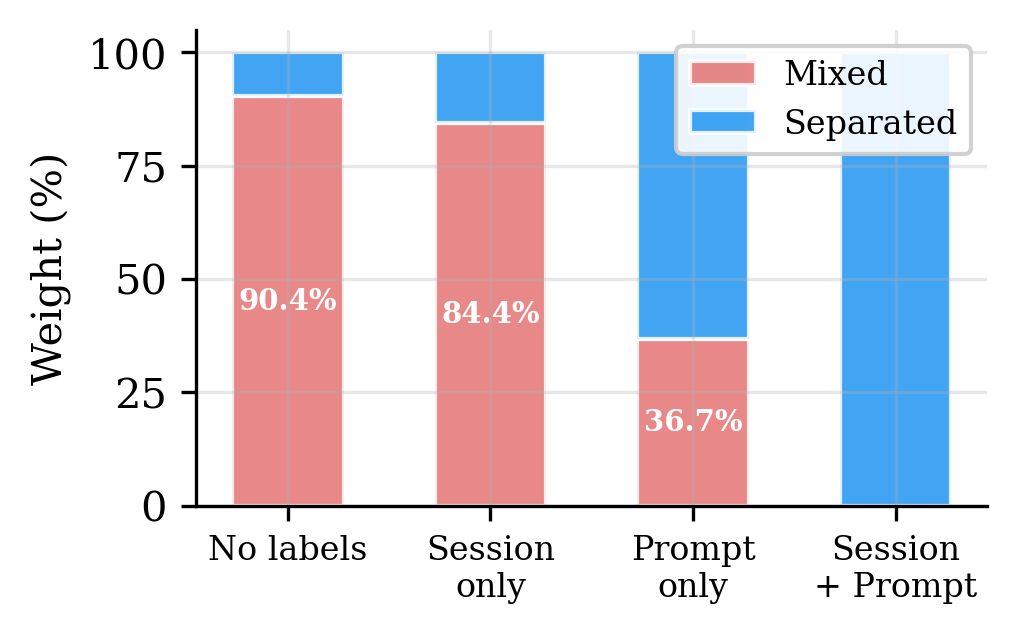
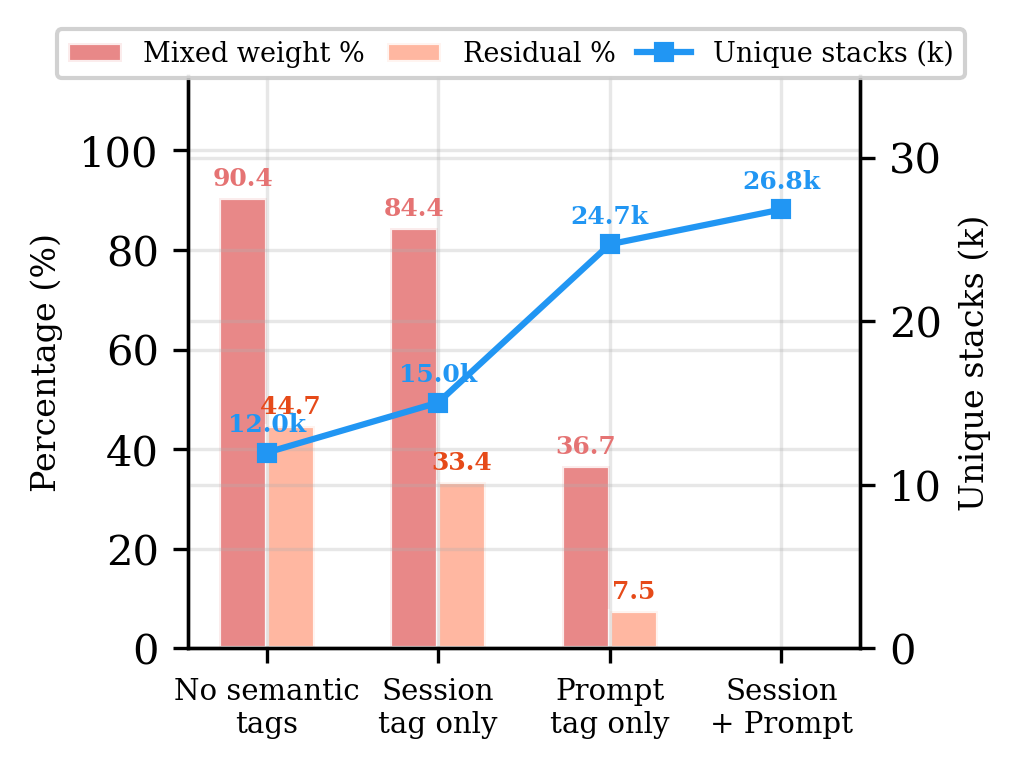
Revise figure generation script and update terminology from "labels" to "tags" for consistency in profiling context

diff --git a/main.tex b/main.tex
@@ -543,7 +543,7 @@ We use two classes of data.
 % 我们使用两类数据。
 \textbf{Real agent trajectories}: 325 readable local trajectories (198~Codex, 50~Claude, 77~Claude subagent) from a multi-month development project, containing 183{,}714 system observations.
 % 真实智能体会话：来自一个多月开发项目的 325 个可读本地会话（198 个 Codex、50 个 Claude、77 个 Claude 子智能体），包含 183,714 个系统观测。
-\textbf{Public labeled traces}: 15 families of real agent or human executions, totaling 47{,}590 operations through mapping rules.
+\textbf{Public annotated traces}: 15 families of real agent or human executions, totaling 47{,}590 operations through mapping rules.
 % 公开标注 trace：15 个真实智能体或人类执行的家族，通过映射规则共计 47,590 个 operation。
 These cover web agents (WebLINX~\cite{weblinx}, Mind2Web~\cite{mind2web}, AgentTrek~\cite{agenttrek}, WebShop~\cite{webshop}), API agents (API-Bank~\cite{apibank}, ToolBench~\cite{toolbench}, tau-bench~\cite{taubench}), coding agents (SWE-agent~\cite{sweagent}), and mobile/GUI agents (AndroidCtrl~\cite{androidcontrol}, GUI-Odyssey~\cite{guiodyssey}, ScaleCUA~\cite{scalecua}).
 % 涵盖 web 智能体（WebLINX、Mind2Web、AgentTrek、WebShop）、API 智能体（API-Bank、ToolBench、tau-bench）、编码智能体（SWE-agent）和移动/GUI 智能体（AndroidCtrl、GUI-Odyssey、ScaleCUA）。
@@ -553,7 +553,7 @@ We measure semantic separation via the mixed-weight percentage defined in RQ1.
 % 我们通过 RQ1 中定义的混合权重百分比测量语义分离度。
 For localization quality (RQ2), we use average precision (AP, the area under the precision-recall curve when groups are ranked by suspected problem density), recall at various inspection budgets, and work-to-first-positive (the fraction of groups inspected before finding one positive).
 % 对于定位质量（RQ2），我们使用平均精度（AP，按疑似问题密度排序分组时精确率-召回率曲线下面积）、不同检查预算下的召回率和首个正例工作量（找到一个正例前检查的分组比例）。
-For label agreement (RQ3), we use V-measure (a clustering-agreement score ranging from 0 to 1) and boundary F1.
+For tag agreement (RQ3), we use V-measure (a clustering-agreement score ranging from 0 to 1) and boundary F1.
 % 对于标签一致性（RQ3），我们使用 V-measure（聚类一致性分数，范围 0 到 1）和边界 F1。
 
 %% -------------------------------------------------------------------
@@ -564,53 +564,36 @@ The strongest argument against semantic profiling is that traditional tools ``ca
 % 反对语义分析的最强论点是传统工具"已经能看到相同信息"。
 To test this, we run a semantic-axis ablation on 325 real Codex/Claude trajectories (183{,}714 system observations).
 % 为了检验这一点，我们在 325 个真实 Codex/Claude 会话（183,714 个系统观测）上进行语义轴消融。
-We progressively add label axes (no labels, session only, prompt only, both) and measure the mixed-weight percentage, the fraction of system-effect cost in groups that mix observations from multiple task categories.
+We progressively add tag axes (no tags, session only, prompt only, both) and measure the mixed-weight percentage, the fraction of system-effect cost in groups that mix observations from multiple task categories.
 % 我们逐步添加标签轴（无标签、仅会话、仅提示词、两者兼有），测量混合权重百分比——混合了多个任务类别观测的桶中的系统副作用权重比例。
 A lower mixed-weight percentage means the profiler correctly separates effects by task category.
 % 更低的混合权重百分比意味着分析器正确地按任务类别分离了效果。
 The residual percentage measures weight in groups where the majority category accounts for less than 90\% of the group, capturing partial mixing.
 % 残余百分比测量多数类别占桶内不到 90\% 的权重，捕获部分混合。
 
-\begin{table}[t]
-\centering\small
-\caption{Semantic-axis ablation on 183{,}714 system observations
-from 325 real trajectories. All rows preserve the same total weight.}
-\label{tab:mixing}
-\begin{tabular}{lrrr}
-\toprule
-Projection & Unique stacks & Mixed weight \% & Residual \% \\
-\midrule
-No semantic tags & 11{,}967 & 90.4 & 44.7 \\
-Session label only & 15{,}027 & 84.4 & 33.4 \\
-Prompt label only & 24{,}703 & 36.7 & 7.5 \\
-Session + prompt & 26{,}829 & 0.0 & 0.0 \\
-\bottomrule
-\end{tabular}
-\end{table}
-
-Table~\ref{tab:mixing} shows the result on 325 real Codex/Claude trajectories.
-% Table~\ref{tab:mixing} 展示了 325 个真实 Codex/Claude 会话上的结果。
+Figure~\ref{fig:rq1-separation} shows the result on 325 real Codex/Claude trajectories.
+% Figure~\ref{fig:rq1-separation} 展示了 325 个真实 Codex/Claude 会话上的结果。
 Without semantic tags, 90.4\% of system-effect cost falls into mixed groups.
 % 没有语义标签时，90.4\% 的系统副作用权重落入混合桶。
 A flat \texttt{cargo~test} counter shows 2{,}903 executions but cannot distinguish whether they came from \texttt{review}, \texttt{debug}, \texttt{refactor}, or \texttt{test} prompts.
 % 扁平的 \texttt{cargo test} 计数器显示 2,903 次执行，但无法区分它们来自 \texttt{review}、\texttt{debug}、\texttt{refactor} 还是 \texttt{test} 提示词。
 Adding only the prompt tag reduces mixed weight to 36.7\% and residual to 7.5\%.
 % 仅添加提示词标签就将混合权重降至 36.7\%，残余降至 7.5\%。
-The session label alone barely helps (84.4\%), because trajectories typically contain multiple intent phases.
+The session tag alone barely helps (84.4\%), because trajectories typically contain multiple intent phases.
 % 仅会话标签几乎没有帮助（84.4\%），因为会话通常包含多个意图阶段。
 
-A label-permutation test (1{,}000 shuffles, $p = 0.001$) confirms the separation is not random.
+A tag-permutation test (1{,}000 shuffles, $p = 0.001$) confirms the separation is not random.
 % 标签置换测试（1,000 次洗牌，$p = 0.001$）确认分离不是随机的。
 Semantic-tag quality is validated in RQ3.
 % 语义标签质量在 RQ3 中验证。
 
-Beyond label separation, we test whether choosing different field selections for the operation stack produces views that flat grouping cannot.
+Beyond tag separation, we test whether choosing different field selections for the operation stack produces views that flat grouping cannot.
 % 除标签分离外，我们还测试为 operation stack 选择不同字段是否产生扁平分组无法产生的视图。
 We take the same 13{,}265 operations from the four oracle-rich families and fold them with five different field selections, counting how many distinct groups each produces.
 % 我们取四个 oracle 丰富家族的同样 13,265 个 operation，用五种不同字段选择折叠，计算每种产生多少不同分组。
 The same operations fold into 9~dataset groups, 57~phase groups, 226~semantic groups, 455~action groups, or 3{,}757~per-session groups by changing only the stack fields.
 % 同样的 operation 仅通过改变栈字段即可折叠为 9 个数据集分组、57 个阶段分组、226 个语义分组、455 个操作分组或 3,757 个固定会话分组。
-A flat GROUP BY on a single label cannot produce these views because different stack depths answer different questions (budget by task vs.\ duplication by action vs.\ per-session detail).
+A flat GROUP BY on a single tag cannot produce these views because different stack depths answer different questions (budget by task vs.\ duplication by action vs.\ per-session detail).
 % 单标签的扁平 GROUP BY 无法产生这些视图，因为不同栈深度回答不同问题（任务级预算 vs. 操作级重复 vs. 会话级下钻）。
 The same model also covers all 15 public trace families (Table~\ref{tab:datasets}) without type-specific objects.
 % 同一模型也覆盖了所有 15 个公开 trace 家族（Table~\ref{tab:datasets}），无需特定类型对象。
@@ -639,11 +622,16 @@ Figure~\ref{fig:flamegraph} shows the resulting flame graphs for the \texttt{tok
 \begin{figure}[t]
 \centering
 \includegraphics[width=\linewidth]{figures/fig-rq1-separation.pdf}
-\caption{RQ1: Semantic-axis ablation on 183{,}714 system observations.
-Adding prompt tags reduces mixed weight from 90.4\% to 36.7\%.
-Session labels alone barely help (84.4\%).}
-\Description{Stacked bar chart showing mixed vs separated weight
-under four projection choices.}
+\caption{RQ1: Semantic-axis ablation on 183{,}714 system observations
+from 325 real trajectories.
+Bars show mixed weight and residual percentages (left axis);
+the line shows unique stacks (right axis).
+Adding prompt tags reduces mixed weight from 90.4\% to 36.7\%
+while increasing unique stacks from 12k to 25k.
+Session tags alone barely help (84.4\%).}
+\Description{Grouped bar chart with dual y-axis showing mixed weight
+percentage, residual percentage, and unique stack count under four
+semantic-tag projection choices.}
 \label{fig:rq1-separation}
 \end{figure}
 
@@ -713,7 +701,7 @@ Per-session grouping retains lower work-to-first-positive on 4/6 tasks, confirmi
 \centering
 \includegraphics[width=\linewidth]{figures/baseline-tradeoff.png}
 \caption{RQ2: Inspection work vs.\ recall at 30\% inspection budget.
-Operation-stack profiling (labeled) achieves low work (0.094) with moderate
+Operation-stack profiling (tagged) achieves low work (0.094) with moderate
 recall (0.39), while flat requires full inspection and per-session
 fragments into 285 groups. Oracle policies (large dots) are upper bounds.}
 \Description{Scatter plot showing inspection work versus budget recall
@@ -723,7 +711,7 @@ for eight profiling policies.}
 
 Statistical validation supports these comparisons.
 % 统计验证支持这些比较。
-Bootstrap (10{,}000 resamples) and label-permutation (2{,}000 trials) confirm that the AP differences are stable and exceed the 95\% confidence threshold on all six tasks.
+Bootstrap (10{,}000 resamples) and tag-permutation (2{,}000 trials) confirm that the AP differences are stable and exceed the 95\% confidence threshold on all six tasks.
 % Bootstrap（10,000 次重采样）和标签置换（2,000 次试验）确认 AP 差异在所有六个任务上是稳定的，且超过 95\% 置信阈值。
 
 We also test whether stack depth matters by sweeping the induced-stack depth cap from 1 to 5 on the same six tasks and measuring AP and inspection work at each depth.
@@ -742,11 +730,11 @@ Modifying stack fields, mapping rules, or ranking criteria and re-running on the
 \subsection{RQ3: How Accurate Are the Labels?}
 % RQ3：标签有多准确？
 
-RQ1 and RQ2 assume that semantic tags (the labels derived by intent attribution or mapping rules) are useful.
+RQ1 and RQ2 assume that semantic tags (the tags derived by intent attribution or mapping rules) are useful.
 % RQ1 和 RQ2 假设语义标签（由意图归因或映射规则派生的标签）是有用的。
 RQ3 tests whether these semantic tags are accurate by comparing them against ground-truth annotations from the benchmark datasets.
 % RQ3 通过将这些语义标签与基准数据集的真实标注进行比较来测试它们是否准确。
-For free-form traces (real trajectories), we measure whether the intent-attribution backends run reliably at scale and produce well-formed labels.
+For free-form traces (real trajectories), we measure whether the intent-attribution backends run reliably at scale and produce well-formed tags.
 % 对于自由形式 trace（真实会话），我们测量意图归因后端是否在规模上可靠运行并产生格式良好的标签。
 Semantic accuracy of the LLM/regex tagger on free-form prompts remains future work because none of the available datasets (67{,}304 rows across 6 sources) simultaneously expose free-form text and ground-truth semantic tags, making same-input accuracy evaluation infeasible with current data.
 % LLM/正则标注器在自由形式提示词上的语义精度仍是未来工作，因为现有数据集（6 个来源共 67,304 行）没有同时暴露自由形式文本和真实语义标签，使得同输入精度评估在当前数据下不可行。
@@ -754,17 +742,17 @@ Semantic accuracy of the LLM/regex tagger on free-form prompts remains future wo
 On 325 real trajectories, the LLM tagger processes 118{,}021 tag requests with zero failures, 100\% syntax validity, and 70\% cache hit rate (operational details in RQ4).
 % 在 325 个真实会话上，LLM 标注器处理了 118,021 个标注请求，零失败，100\% 语法有效性，70\% 缓存命中率（运行细节见 RQ4）。
 
-Public benchmark datasets provide native action labels that serve as ground truth for mapping quality.
+Public benchmark datasets provide native action annotations that serve as ground truth for mapping quality.
 % 公开基准数据集提供原生操作标签作为映射质量的真实标准。
 We run a leave-dataset-out evaluation.
 % 我们运行留一数据集评估。
-For each of 9 datasets, we train mapping rules on the other 8 and measure V-measure between the mapping-derived \texttt{phase} field and the dataset's native \texttt{action} labels, plus boundary F1 between mapped phase boundaries and native action boundaries.
+For each of 9 datasets, we train mapping rules on the other 8 and measure V-measure between the mapping-derived \texttt{phase} field and the dataset's native \texttt{action} annotations, plus boundary F1 between mapped phase boundaries and native action boundaries.
 % 对于 9 个数据集中的每一个，我们在其余 8 个上训练映射规则，测量映射衍生的 \texttt{phase} 字段与数据集原生 \texttt{action} 标签之间的 V-measure，以及映射阶段边界与原生操作边界之间的边界 F1。
 
 \begin{table}[t]
 \centering\small
 \caption{Leave-dataset-out mapping quality. V-measure between
-mapping-derived \texttt{phase} and native \texttt{action} labels.
+mapping-derived \texttt{phase} and native \texttt{action} annotations.
 13{,}265 operations from the four oracle-rich families
 across 9 held-out evaluations.}
 \label{tab:vmeasure}
@@ -789,7 +777,7 @@ api-bank & 48 & 0.000 & --- \\
 \centering
 \includegraphics[width=\linewidth]{figures/fig-rq3-vmeasure.pdf}
 \caption{RQ3: Leave-dataset-out V-measure between mapping-derived
-\texttt{phase} and native \texttt{action} labels. The dashed line
+\texttt{phase} and native \texttt{action} annotations. The dashed line
 marks 0.7. Seven of nine datasets exceed this threshold.}
 \Description{Bar chart showing V-measure for nine held-out datasets,
 with a dashed line at 0.7.}
@@ -798,12 +786,12 @@ with a dashed line at 0.7.}
 
 Table~\ref{tab:vmeasure} and Figure~\ref{fig:rq3-vmeasure} show the results.
 % Table~\ref{tab:vmeasure} 和 Figure~\ref{fig:rq3-vmeasure} 展示了结果。
-On 7/9 datasets, V-measure exceeds 0.7, indicating strong agreement between mapping-derived and native labels.
+On 7/9 datasets, V-measure exceeds 0.7, indicating strong agreement between mapping-derived tags and native annotations.
 % 在 7/9 数据集上，V-measure 超过 0.7，表明映射衍生标签与原生标签之间有很强的一致性。
 The two low-scoring datasets (toolbench, api-bank) have atypical action vocabularies that the held-out mapping rules do not cover.
 % 两个低分数据集（toolbench、api-bank）具有保留映射规则未覆盖的非典型操作词汇。
 
-Supervised boundary predictors beat simple baselines on 4/5 tested datasets (e.g., F1~0.77 vs 0.71 on OSWorld-Human), confirming that mapping rules produce useful labels but are not automatic intent discovery.
+Supervised boundary predictors beat simple baselines on 4/5 tested datasets (e.g., F1~0.77 vs 0.71 on OSWorld-Human), confirming that mapping rules produce useful tags but are not automatic intent discovery.
 % 有监督的边界预测器在 4/5 测试的数据集上超过简单基线（例如 OSWorld-Human 上 F1 约 0.77 vs 0.71），确认映射规则产生有用标签但不是自动意图发现。
 
 %% -------------------------------------------------------------------
@@ -828,21 +816,13 @@ The full profile-spec composition path (operation files, query predicates, rank 
 
 Intent attribution adds a one-time cost for new prompts.
 % 意图归因对新提示词增加一次性开销。
-Of 118{,}021 tag requests on 325 real trajectories, 70\% are cache hits (zero cost), and the remaining 35{,}136 new calls complete at p95 latency of 31\,ms per label using a local 3B-parameter model.
+Of 118{,}021 tag requests on 325 real trajectories, 70\% are cache hits (zero cost), and the remaining 35{,}136 new calls complete at p95 latency of 31\,ms per tag using a local 3B-parameter model.
 % 在 325 个真实会话的 118,021 个标注请求中，70\% 为缓存命中（零开销），其余 35,136 个新调用使用本地 3B 参数模型以 p95 延迟 31 毫秒/标签完成。
-Grammar-constrained decoding ensures 100\% syntax validity (2{,}700/2{,}700 test labels).
+Grammar-constrained decoding ensures 100\% syntax validity (2{,}700/2{,}700 test tags).
 % 语法约束解码确保 100\% 语法有效性（2,700/2,700 测试标签）。
-Because labels are cached, re-profiling the same trajectories with different stack fields or predicates incurs no additional LLM calls.
+Because tags are cached, re-profiling the same trajectories with different stack fields or predicates incurs no additional LLM calls.
 % 因为标签被缓存，用不同栈字段或谓词重新分析相同会话不产生额外 LLM 调用。
 
-\paragraph{Limitations.}
-% 局限性。
-The real-session data comes from a single multi-month development project, so the label distributions may not generalize to other domains.
-% 真实会话数据来自单个多月开发项目，标签分布可能无法推广到其他领域。
-Semantic accuracy of the intent-attribution backends on free-form prompts remains unevaluated because no available dataset simultaneously exposes free-form text and ground-truth semantic tags (as discussed in RQ3 above).
-% 意图归因后端在自由形式提示词上的语义精度仍未评估，因为没有可用数据集同时暴露自由形式文本和真实语义标签（见 RQ3）。
-The evaluation uses per-session grouping as a proxy for span-tree debugging tools, not a real OpenTelemetry or LangSmith trace import.
-% 评估使用固定会话下钻作为 span 树调试工具的代理，而非真实的 OpenTelemetry 或 LangSmith trace 导入。
 
 %% ===================================================================
 \section{Related Work}
@@ -873,7 +853,7 @@ Agent observability needs profiling, not only debugging.
 % 智能体可观测性需要性能分析，不仅仅是调试。
 \sys shows that the semantic operation stack model, combined with pluggable intent attribution and stack construction algorithms, closes the aggregation gap for agent traces.
 % \sys 表明，语义 operation stack 模型结合可插拔的意图归因和栈构造算法，填补了智能体 trace 的聚合缺口。
-Scoring profiler output against hidden trajectory labels confirms that semantic profiling separates over 90\% of system-effect cost that per-session views leave mixed, localizes labeled problems at 9.4\% inspection work versus flat summaries, and produces labels that agree with ground truth on 7/9 held-out datasets.
+Scoring profiler output against hidden trajectory annotations confirms that semantic profiling separates over 90\% of system-effect cost that per-session views leave mixed, localizes annotated problems at 9.4\% inspection work versus flat summaries, and produces tags that agree with ground truth on 7/9 held-out datasets.
 % 将分析器输出与隐藏轨迹标签评分确认，语义分析分离了超过 90\% 的混合系统副作用权重，以扁平摘要 9.4\% 的检查工作量定位标注问题，并在 7/9 保留数据集上产生与真实标签一致的标签。
 Per-session grouping remains faster to a first positive on 4/6 tasks, confirming that profilers and debuggers are complementary, and \sys supports both by including or excluding session fields in the stack query.
 % 固定会话下钻在 4/6 任务上更快找到首个正例，确认分析器和调试器是互补的，\sys 通过在栈查询中包含或排除会话字段同时支持两者。

diff --git a/figures/make_rq_figures.py b/figures/make_rq_figures.py
@@ -20,29 +20,53 @@ GRAY = '#9E9E9E'
 
 
 def make_rq1_separation():
-    labels = ['No labels', 'Session\nonly', 'Prompt\nonly', 'Session\n+ Prompt']
+    labels = ['No semantic\ntags', 'Session\ntag only', 'Prompt\ntag only', 'Session\n+ Prompt']
     mixed = [90.4, 84.4, 36.7, 0.0]
-    separated = [9.6, 15.6, 63.3, 100.0]
+    residual = [44.7, 33.4, 7.5, 0.0]
+    stacks = [11967, 15027, 24703, 26829]
 
     x = np.arange(len(labels))
-    width = 0.55
+    width = 0.28
 
-    fig, ax = plt.subplots(figsize=(3.5, 2.2))
-    ax.bar(x, mixed, width, label='Mixed', color=RED, alpha=0.85, edgecolor='white')
-    ax.bar(x, separated, width, bottom=mixed, label='Separated', color=BLUE, alpha=0.85, edgecolor='white')
+    fig, ax1 = plt.subplots(figsize=(3.5, 2.5))
 
-    ax.set_ylabel('Weight (%)')
-    ax.set_xticks(x)
-    ax.set_xticklabels(labels, fontsize=8)
-    ax.set_ylim(0, 105)
-    ax.legend(fontsize=8, loc='upper right', framealpha=0.9)
+    b1 = ax1.bar(x - width/2, mixed, width, label='Mixed weight %',
+                 color=RED, alpha=0.85, edgecolor='white')
+    b2 = ax1.bar(x + width/2, residual, width, label='Residual %',
+                 color='#FFAB91', alpha=0.85, edgecolor='white')
 
-    for i, (m, s) in enumerate(zip(mixed, separated)):
-        if m > 10:
-            ax.text(i, m / 2, f'{m:.1f}%', ha='center', va='center', fontsize=7, color='white', fontweight='bold')
+    ax1.set_ylabel('Percentage (%)', fontsize=8)
+    ax1.set_xticks(x)
+    ax1.set_xticklabels(labels, fontsize=7)
+    ax1.set_ylim(0, 115)
+    ax1.spines['top'].set_visible(False)
 
-    ax.spines['top'].set_visible(False)
-    ax.spines['right'].set_visible(False)
+    for i, m in enumerate(mixed):
+        if m > 5:
+            ax1.text(i - width/2, m + 1.5, f'{m:.1f}', ha='center', va='bottom',
+                     fontsize=6, color=RED, fontweight='bold')
+    for i, r in enumerate(residual):
+        if r > 5:
+            ax1.text(i + width/2, r + 1.5, f'{r:.1f}', ha='center', va='bottom',
+                     fontsize=6, color='#E64A19', fontweight='bold')
+
+    ax2 = ax1.twinx()
+    ax2.plot(x, [s/1000 for s in stacks], 's-', color=BLUE, linewidth=1.5,
+             markersize=4, label='Unique stacks (k)', zorder=5)
+    ax2.set_ylabel('Unique stacks (k)', fontsize=8)
+    ax2.set_ylim(0, 35)
+    ax2.spines['top'].set_visible(False)
+
+    for i, s in enumerate(stacks):
+        ax2.text(i, s/1000 + 1.0, f'{s/1000:.1f}k', ha='center', va='bottom',
+                 fontsize=6, color=BLUE, fontweight='bold')
+
+    h1, l1 = ax1.get_legend_handles_labels()
+    h2, l2 = ax2.get_legend_handles_labels()
+    fig.legend(h1 + h2, l1 + l2, fontsize=6.5,
+               loc='upper center', bbox_to_anchor=(0.5, 1.02),
+               ncol=3, framealpha=0.9, columnspacing=0.8)
+
     plt.tight_layout()
     plt.savefig('fig-rq1-separation.pdf', bbox_inches='tight', dpi=300)
     plt.savefig('fig-rq1-separation.png', bbox_inches='tight', dpi=300)